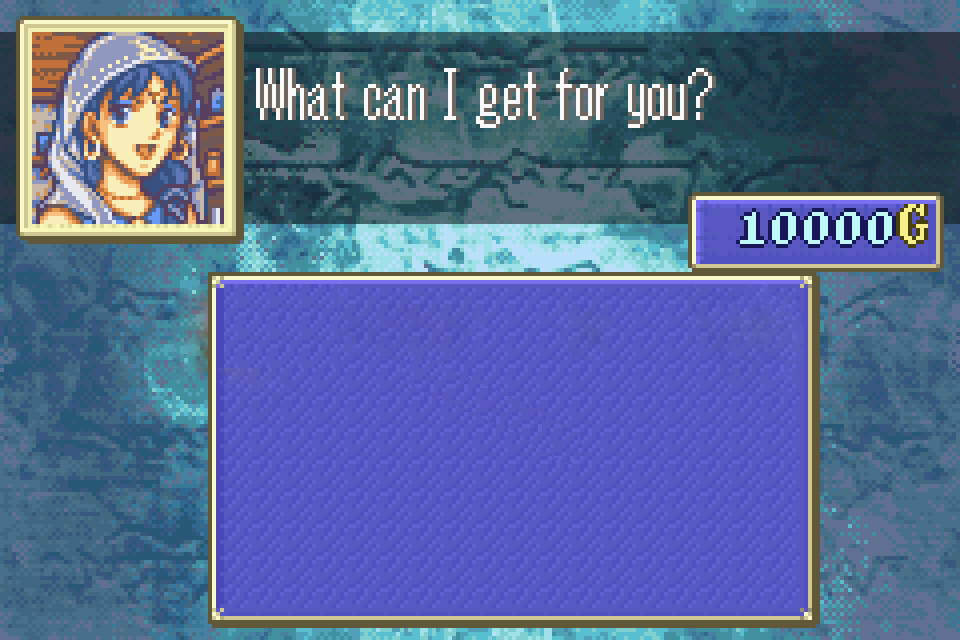
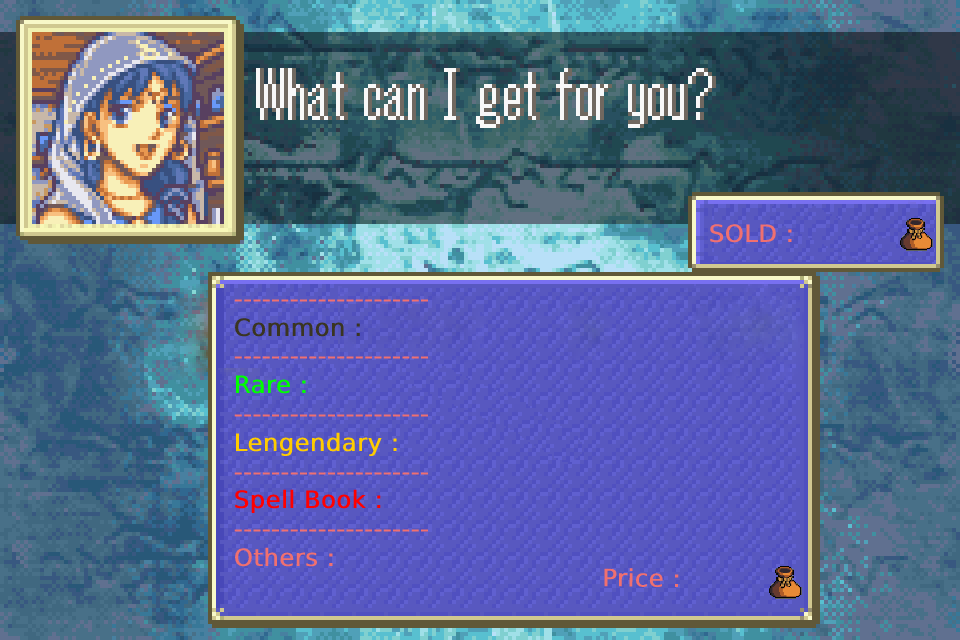
shop

diff --git a/src/shop.c b/src/shop.c
@@ -29,14 +29,48 @@ void destroy_shop(Global_t *m)
 
 void init_shop(Global_t *m)
 {
-    sfVector2f pose = {440, 240};
+    sfVector2f pose = {200, 90};
     sfVector2f size = {0.5, 0.5};
 
     m->shop.shop = init_sprit("assets/shop/shop.png", pose, size);
     size.x = size.y = 1.3;
-    pose.x = 640;
-    pose.y = 440;
+    pose.x = 300;
+    pose.y = 195;
     m->weapons[COMMON_SWORD].sprite = init_sprit(m->weapons[COMMON_SWORD].link_texture, pose, size);
+    pose.x += 35;
+    m->weapons[COMMON_BOW].sprite = init_sprit(m->weapons[COMMON_BOW].link_texture, pose, size);
+    pose.x += 30;
+    m->weapons[COMMON_SPEAR].sprite = init_sprit(m->weapons[COMMON_SPEAR].link_texture, pose, size);
+    pose.x += 30;
+    m->weapons[COMMON_AXE].sprite = init_sprit(m->weapons[COMMON_AXE].link_texture, pose, size);
+    pose.y = 425;
+    pose.x = 300;
+    m->weapons[RARE_SWORD].sprite = init_sprit(m->weapons[RARE_SWORD].link_texture, pose, size);
+    pose.x += 30;
+    m->weapons[RARE_BOW].sprite = init_sprit(m->weapons[RARE_BOW].link_texture, pose, size);
+    pose.x += 30;
+    m->weapons[RARE_SPEAR].sprite = init_sprit(m->weapons[RARE_SPEAR].link_texture, pose, size);
+    pose.x += 30;
+    m->weapons[RARE_AXE].sprite = init_sprit(m->weapons[RARE_AXE].link_texture, pose, size);
+    pose.y = 455;
+    pose.x = 300;
+    m->weapons[LEGENDARY_SWORD].sprite = init_sprit(m->weapons[LEGENDARY_SWORD].link_texture, pose, size);
+    pose.x += 30;
+    m->weapons[LEGENDARY_BOW].sprite = init_sprit(m->weapons[LEGENDARY_BOW].link_texture, pose, size);
+    pose.x += 30;
+    m->weapons[LEGENDARY_SPEAR].sprite = init_sprit(m->weapons[LEGENDARY_SPEAR].link_texture, pose, size);
+    pose.x += 30;
+    m->weapons[LEGENDARY_AXE].sprite = init_sprit(m->weapons[LEGENDARY_AXE].link_texture, pose, size);//!
+    pose.y = 485;
+    pose.x = 300;
+    m->weapons[THUNDER_BOOK].sprite = init_sprit(m->weapons[THUNDER_BOOK].link_texture, pose, size);
+    pose.x += 30;
+    m->weapons[FIRE_BOOK].sprite = init_sprit(m->weapons[FIRE_BOOK].link_texture, pose, size);
+    pose.x += 30;
+    m->weapons[FREEZE_BOOK].sprite = init_sprit(m->weapons[FREEZE_BOOK].link_texture, pose, size);
+    pose.y = 515;
+    pose.x = 300;
+    m->weapons[POTION].sprite = init_sprit(m->weapons[POTION].link_texture, pose, size);
 }
 
 void draw_shop(Global_t *m)
@@ -44,6 +78,21 @@ void draw_shop(Global_t *m)
     if (m->current == 9) {
         sfRenderWindow_drawSprite(m->window ,m->shop.shop, NULL);
         sfRenderWindow_drawSprite(m->window, m->weapons[COMMON_SWORD].sprite, NULL);
+        sfRenderWindow_drawSprite(m->window, m->weapons[COMMON_BOW].sprite, NULL);
+        sfRenderWindow_drawSprite(m->window, m->weapons[COMMON_SPEAR].sprite, NULL);
+        sfRenderWindow_drawSprite(m->window, m->weapons[COMMON_AXE].sprite, NULL);
+        sfRenderWindow_drawSprite(m->window, m->weapons[RARE_SWORD].sprite, NULL);//!
+        sfRenderWindow_drawSprite(m->window, m->weapons[RARE_BOW].sprite, NULL);
+        sfRenderWindow_drawSprite(m->window, m->weapons[RARE_SPEAR].sprite, NULL);
+        sfRenderWindow_drawSprite(m->window, m->weapons[RARE_AXE].sprite, NULL);
+        sfRenderWindow_drawSprite(m->window, m->weapons[LEGENDARY_SWORD].sprite, NULL);
+        sfRenderWindow_drawSprite(m->window, m->weapons[LEGENDARY_BOW].sprite, NULL);
+        sfRenderWindow_drawSprite(m->window, m->weapons[LEGENDARY_SPEAR].sprite, NULL);
+        sfRenderWindow_drawSprite(m->window, m->weapons[LEGENDARY_AXE].sprite, NULL);
+        sfRenderWindow_drawSprite(m->window, m->weapons[THUNDER_BOOK].sprite, NULL);
+        sfRenderWindow_drawSprite(m->window, m->weapons[FIRE_BOOK].sprite, NULL);
+        sfRenderWindow_drawSprite(m->window, m->weapons[FREEZE_BOOK].sprite, NULL);
+        sfRenderWindow_drawSprite(m->window, m->weapons[POTION].sprite, NULL);
         if (sfKeyboard_isKeyPressed(sfKeyEscape))
             m->current = 12;
     }

diff --git a/src/hub.c b/src/hub.c
@@ -95,7 +95,7 @@ void moveCharacter(Global_t *m, hub_t *hub) {
         sfClock_restart(m->clock);
     }
     hub->pos_sprite = sfSprite_getPosition(hub->sprite_perso);
-    hub->color = sfImage_getPixel(hub->hitbox, (hub->pos_sprite.x + hub->movement.x + 10), (hub->pos_sprite.y + hub->movement.y + 10));
+    hub->color = sfImage_getPixel(hub->hitbox, (hub->pos_sprite.x + hub->movement.x + 20), (hub->pos_sprite.y + hub->movement.y + 20));
     if (hub->color.r != 255 && hub->pos_sprite.x + hub->movement.x > 0 && hub->pos_sprite.x + hub->movement.x < 1375 && hub->pos_sprite.y + hub->movement.y > 0 && hub->pos_sprite.y + hub->movement.y < 760) {
         sfSprite_move(hub->sprite_perso, hub->movement);
         sfView_move(hub->view, hub->movement);
